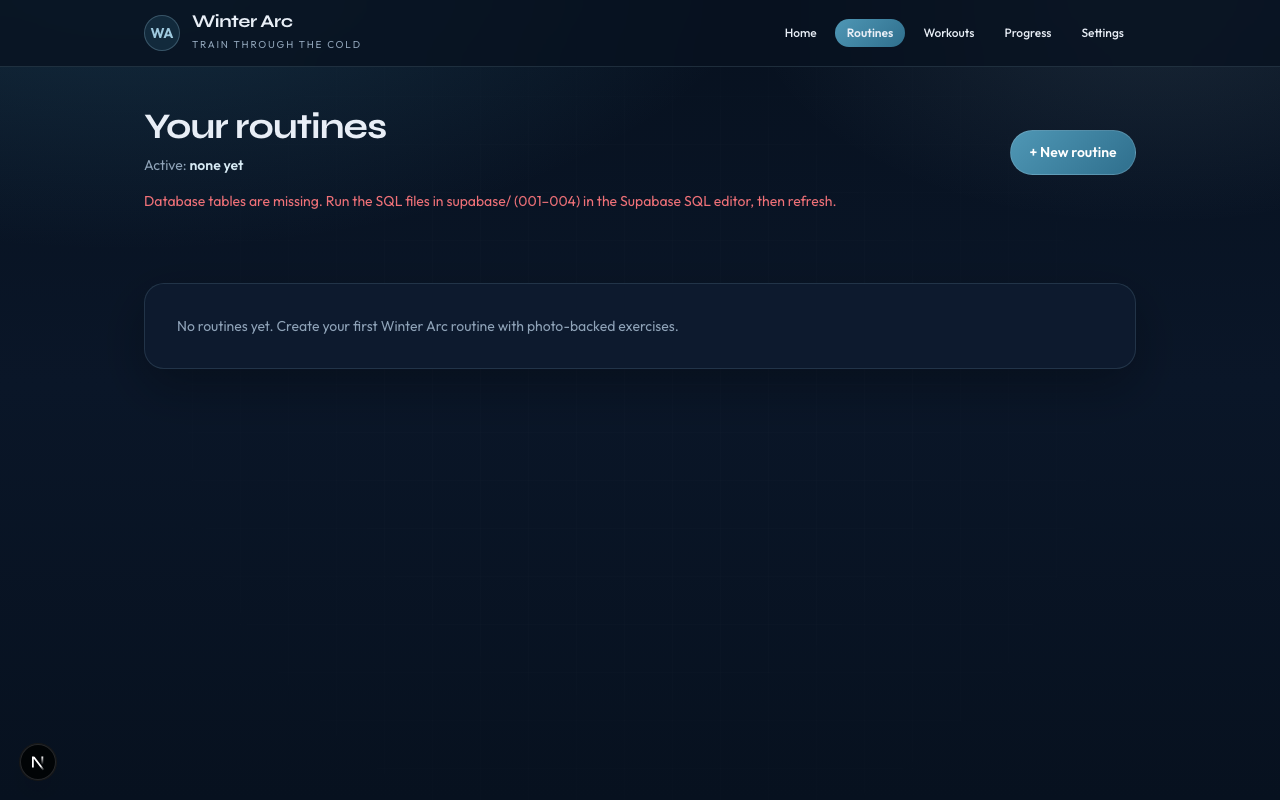
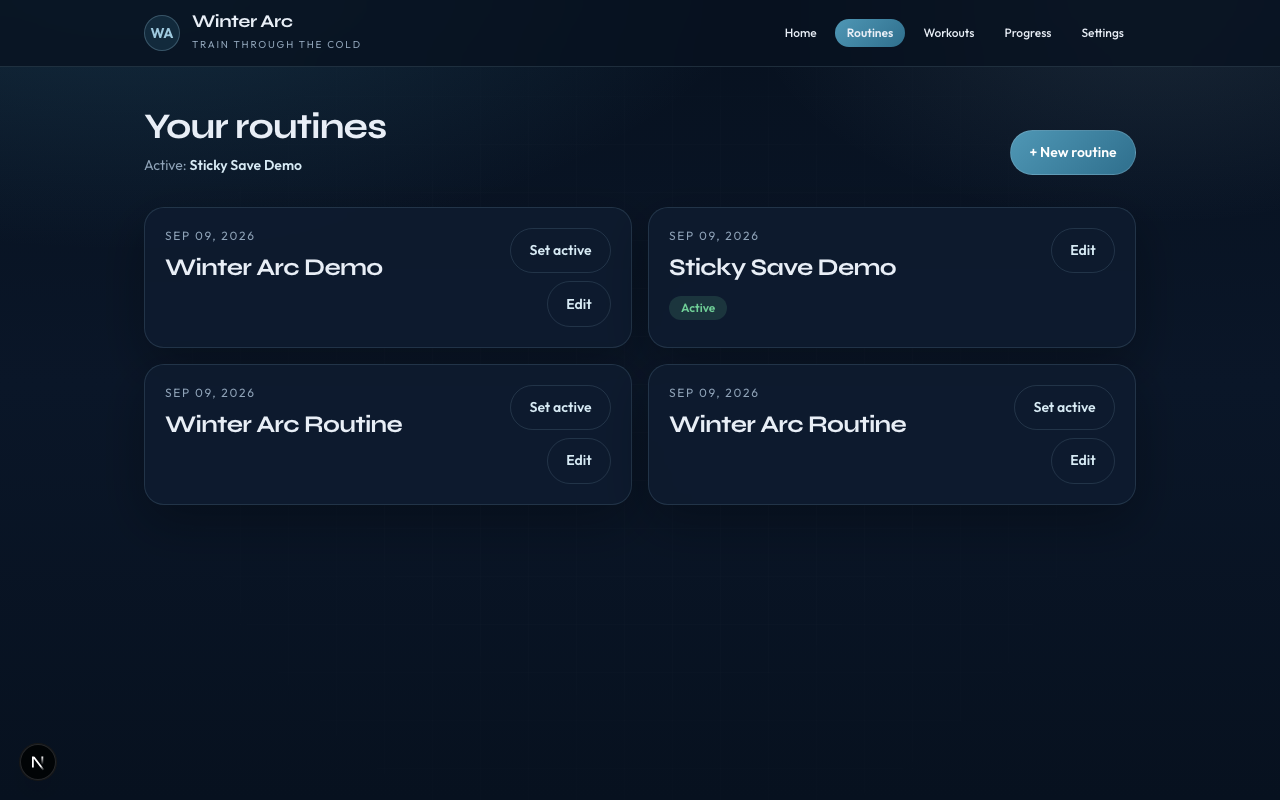
docs: refresh product screenshots and README walkthrough
Recapture the full happy-path gallery with live routines, workout
logging, and progress data after the schema was applied.

diff --git a/README.md b/README.md
@@ -24,11 +24,9 @@ npm run dev
 
 Open [http://localhost:3000](http://localhost:3000).
 
-**Required before routines/workouts work:** run the database migrations in your Supabase project. Easiest path — paste `supabase/000_all.sql` into the Supabase **SQL Editor** and run it. Details: [docs/SETUP.md](docs/SETUP.md).
+Before first use, run `supabase/000_all.sql` in the Supabase SQL Editor (or migrations `001`–`004`). Full setup: [docs/SETUP.md](docs/SETUP.md).
 
 ## App walkthrough
-
-Screens below are from the live app. **Routines / workouts / progress / settings need the SQL migrations** — if those pages say tables are missing, run `supabase/000_all.sql` once (see [docs/SETUP.md](docs/SETUP.md)), then `npm run screenshots` to refresh shots.
 
 | Step | Screen |
 |------|--------|
@@ -38,12 +36,12 @@ Screens below are from the live app. **Routines / workouts / progress / settings
 | Routines | ![Routines](docs/screenshots/04-routines.png) |
 | Build a routine | ![Builder](docs/screenshots/05-routine-builder.png) |
 | Exercise photos | ![Picker](docs/screenshots/06-exercise-photo-picker.png) |
-| Workout history | ![Workouts](docs/screenshots/07-workouts.png) |
 | Log a session | ![Session](docs/screenshots/08-workout-session.png) |
+| Workout history | ![Workouts](docs/screenshots/07-workouts.png) |
 | Progress | ![Progress](docs/screenshots/09-progress.png) |
 | Reminders | ![Settings](docs/screenshots/10-settings.png) |
 
-Mobile:
+### Mobile
 
 | Dashboard | Routine builder |
 |-----------|-----------------|
